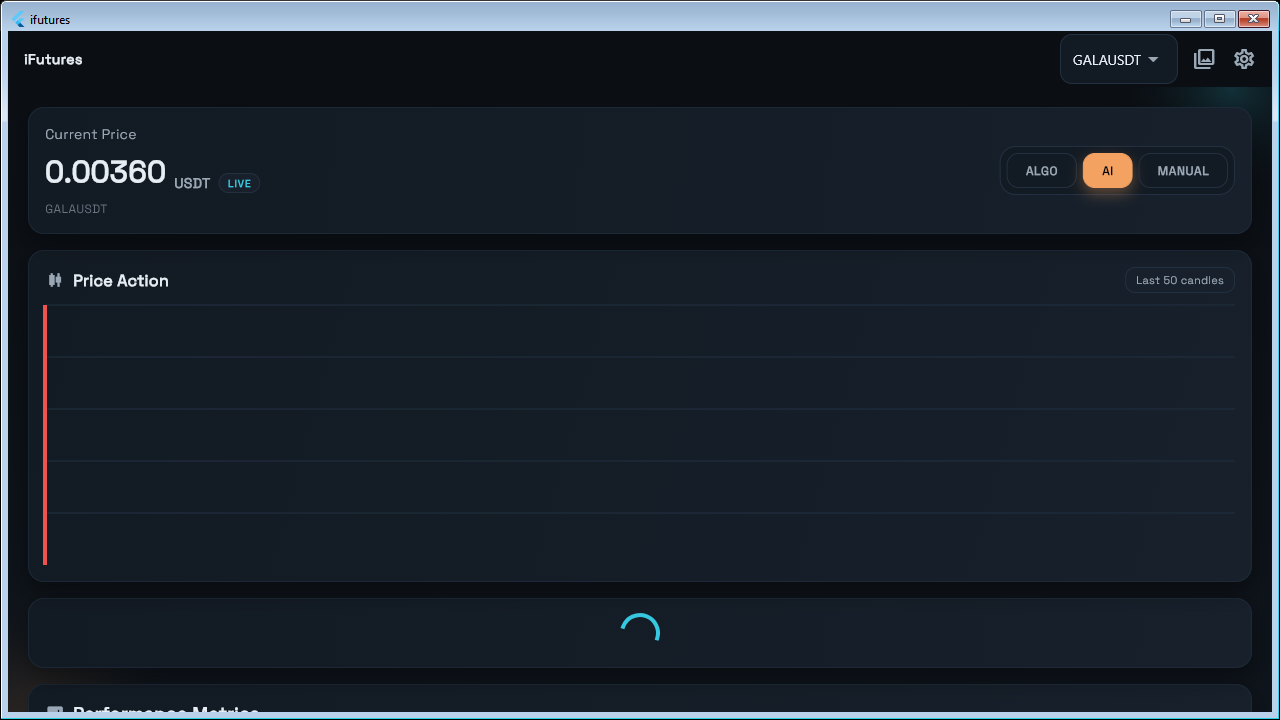
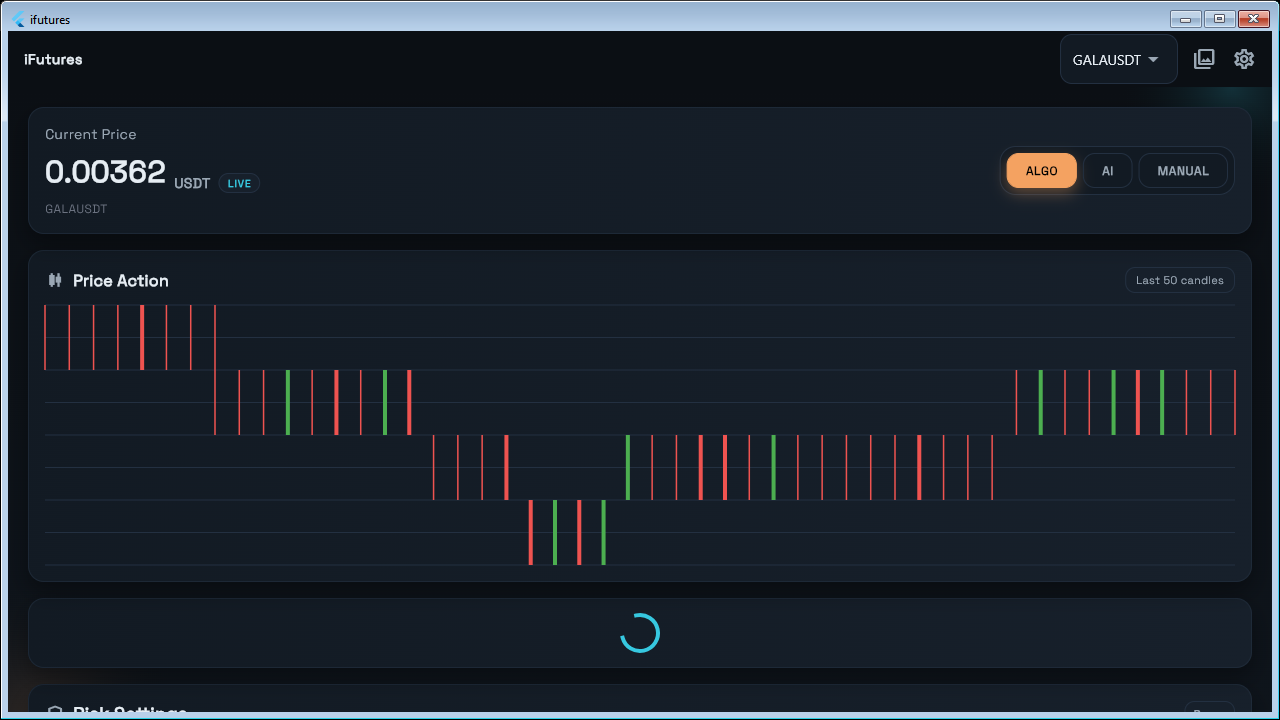
Fix market data loading and expose manual overrides

diff --git a/lib/screens/dashboard_screen.dart b/lib/screens/dashboard_screen.dart
@@ -2,7 +2,6 @@ import 'package:flutter/material.dart';
 import 'package:flutter_riverpod/flutter_riverpod.dart';
 import '../providers/trading_provider.dart';
 import '../trading/trading_engine.dart';
-import '../trading/manual_strategy.dart';
 import '../models/connection_status.dart';
 import '../widgets/common/app_panel.dart';
 import '../widgets/dashboard/mode_selector.dart';
@@ -25,7 +24,6 @@ class DashboardScreen extends ConsumerWidget {
     final isRunning = ref.watch(isBotRunningProvider(symbol));
     final engineAsync = ref.watch(tradingEngineProvider(symbol));
     final currentStrategy = ref.watch(currentStrategyProvider);
-    final isManual = currentStrategy is ManualStrategy;
     final settingsInit = ref.watch(settingsInitProvider);
     final connectionStatus = ref.watch(connectionStatusProvider(symbol));
     const symbols = ['GALAUSDT', 'BTCUSDT', 'ETHUSDT', 'BNBUSDT', 'SOLUSDT'];
@@ -186,76 +184,83 @@ class DashboardScreen extends ConsumerWidget {
                     ),
                   ),
                 ),
-                if (isManual)
-                  SliverPadding(
-                    padding: const EdgeInsets.fromLTRB(20, 8, 20, 8),
-                    sliver: SliverToBoxAdapter(
-                      child: AppPanel(
-                        child: Column(
-                          crossAxisAlignment: CrossAxisAlignment.start,
-                          children: [
-                            const Text(
-                              'Manual Controls',
-                              style: TextStyle(
-                                color: AppColors.textPrimary,
-                                fontSize: 16,
-                                fontWeight: FontWeight.w700,
+                SliverPadding(
+                  padding: const EdgeInsets.fromLTRB(20, 8, 20, 8),
+                  sliver: SliverToBoxAdapter(
+                    child: AppPanel(
+                      child: Column(
+                        crossAxisAlignment: CrossAxisAlignment.start,
+                        children: [
+                          const Text(
+                            'Manual Controls',
+                            style: TextStyle(
+                              color: AppColors.textPrimary,
+                              fontSize: 16,
+                              fontWeight: FontWeight.w700,
+                            ),
+                          ),
+                          const SizedBox(height: 6),
+                          Text(
+                            'Available for override while ${currentStrategy?.name ?? 'strategy'} is running.',
+                            style: const TextStyle(
+                              color: AppColors.textSecondary,
+                              fontSize: 12,
+                            ),
+                          ),
+                          const SizedBox(height: 12),
+                          Row(
+                            children: [
+                              Expanded(
+                                child: _ActionButton(
+                                  label: 'LONG',
+                                  icon: Icons.arrow_upward,
+                                  color: AppColors.positive,
+                                  onPressed: !isRunning || engineAsync.isLoading
+                                      ? null
+                                      : () {
+                                          if (engineAsync is AsyncData<TradingEngine>) {
+                                            engineAsync.value.manualEnterLong();
+                                          }
+                                        },
+                                ),
                               ),
-                            ),
-                            const SizedBox(height: 12),
-                            Row(
-                              children: [
-                                Expanded(
-                                  child: _ActionButton(
-                                    label: 'LONG',
-                                    icon: Icons.arrow_upward,
-                                    color: AppColors.positive,
-                                    onPressed: !isRunning || engineAsync.isLoading
-                                        ? null
-                                        : () {
-                                            if (engineAsync is AsyncData<TradingEngine>) {
-                                              engineAsync.value.manualEnterLong();
-                                            }
-                                          },
-                                  ),
+                              const SizedBox(width: 12),
+                              Expanded(
+                                child: _ActionButton(
+                                  label: 'SHORT',
+                                  icon: Icons.arrow_downward,
+                                  color: AppColors.negative,
+                                  onPressed: !isRunning || engineAsync.isLoading
+                                      ? null
+                                      : () {
+                                          if (engineAsync is AsyncData<TradingEngine>) {
+                                            engineAsync.value.manualEnterShort();
+                                          }
+                                        },
                                 ),
-                                const SizedBox(width: 12),
-                                Expanded(
-                                  child: _ActionButton(
-                                    label: 'SHORT',
-                                    icon: Icons.arrow_downward,
-                                    color: AppColors.negative,
-                                    onPressed: !isRunning || engineAsync.isLoading
-                                        ? null
-                                        : () {
-                                            if (engineAsync is AsyncData<TradingEngine>) {
-                                              engineAsync.value.manualEnterShort();
-                                            }
-                                          },
-                                  ),
+                              ),
+                              const SizedBox(width: 12),
+                              Expanded(
+                                child: _ActionButton(
+                                  label: 'CLOSE',
+                                  icon: Icons.close,
+                                  color: AppColors.textSecondary,
+                                  onPressed: !isRunning || engineAsync.isLoading
+                                      ? null
+                                      : () {
+                                          if (engineAsync is AsyncData<TradingEngine>) {
+                                            engineAsync.value.manualClose();
+                                          }
+                                        },
                                 ),
-                                const SizedBox(width: 12),
-                                Expanded(
-                                  child: _ActionButton(
-                                    label: 'CLOSE',
-                                    icon: Icons.close,
-                                    color: AppColors.textSecondary,
-                                    onPressed: !isRunning || engineAsync.isLoading
-                                        ? null
-                                        : () {
-                                            if (engineAsync is AsyncData<TradingEngine>) {
-                                              engineAsync.value.manualClose();
-                                            }
-                                          },
-                                  ),
-                                ),
-                              ],
-                            ),
-                          ],
-                        ),
+                              ),
+                            ],
+                          ),
+                        ],
                       ),
                     ),
                   ),
+                ),
                 SliverPadding(
                   padding: const EdgeInsets.fromLTRB(20, 8, 20, 20),
                   sliver: SliverToBoxAdapter(
@@ -435,16 +440,16 @@ class DashboardScreen extends ConsumerWidget {
         final latency = data.latencyMs != null ? '${data.latencyMs}ms' : '--';
 
         switch (data.state) {
-          case ConnectionState.connecting:
+          case MarketConnectionState.connecting:
             return const _StatusPill(label: 'Market: Connecting', color: AppColors.glowAmber);
-          case ConnectionState.connected:
+          case MarketConnectionState.connected:
             return _StatusPill(label: 'Market: Live • $latency', color: AppColors.glowCyan);
-          case ConnectionState.stale:
+          case MarketConnectionState.stale:
             return _StatusPill(
               label: 'Market: Slow • ${ageSeconds ?? '-'}s',
               color: AppColors.warning,
             );
-          case ConnectionState.disconnected:
+          case MarketConnectionState.disconnected:
             return const _StatusPill(label: 'Market: Offline', color: AppColors.negative);
         }
       },

diff --git a/lib/services/binance_api.dart b/lib/services/binance_api.dart
@@ -35,7 +35,7 @@ class BinanceApiService {
     return digest.toString();
   }
 
-  Future<Map<String, dynamic>> _sendRequest(
+  Future<T> _sendRequest<T>(
     String method,
     String path, {
     Map<String, dynamic>? params,
@@ -54,7 +54,7 @@ class BinanceApiService {
         queryParameters: params,
         options: Options(method: method),
       );
-      return response.data;
+      return response.data as T;
     } on DioException catch (e) {
       print('Dio error: ${e.response?.data ?? e.message}');
       rethrow;
@@ -70,15 +70,15 @@ class BinanceApiService {
   // --- API Methods ---
 
   Future<Map<String, dynamic>> getAccountInfo() async {
-    return _sendRequest('GET', '/fapi/v2/account', signed: true);
+    return _sendRequest<Map<String, dynamic>>('GET', '/fapi/v2/account', signed: true);
   }
 
   Future<Map<String, dynamic>> getBalance() async {
-    return _sendRequest('GET', '/fapi/v2/balance', signed: true);
+    return _sendRequest<Map<String, dynamic>>('GET', '/fapi/v2/balance', signed: true);
   }
 
   Future<Map<String, dynamic>> getExchangeInfo() async {
-    return _sendRequest('GET', '/fapi/v1/exchangeInfo');
+    return _sendRequest<Map<String, dynamic>>('GET', '/fapi/v1/exchangeInfo');
   }
 
   Future<Map<String, dynamic>> placeOrder({
@@ -98,7 +98,7 @@ class BinanceApiService {
     if (price != null) params['price'] = price;
     if (stopPrice != null) params['stopPrice'] = stopPrice;
 
-    return _sendRequest('POST', '/fapi/v1/order', params: params, signed: true);
+    return _sendRequest<Map<String, dynamic>>('POST', '/fapi/v1/order', params: params, signed: true);
   }
 
   Future<Map<String, dynamic>> setLeverage({
@@ -109,7 +109,7 @@ class BinanceApiService {
       'symbol': symbol.toUpperCase(),
       'leverage': leverage,
     };
-    return _sendRequest('POST', '/fapi/v1/leverage', params: params, signed: true);
+    return _sendRequest<Map<String, dynamic>>('POST', '/fapi/v1/leverage', params: params, signed: true);
   }
 
   Future<Map<String, dynamic>> setMarginType({
@@ -120,7 +120,7 @@ class BinanceApiService {
       'symbol': symbol.toUpperCase(),
       'marginType': marginType.toUpperCase(),
     };
-    return _sendRequest('POST', '/fapi/v1/marginType', params: params, signed: true);
+    return _sendRequest<Map<String, dynamic>>('POST', '/fapi/v1/marginType', params: params, signed: true);
   }
 
   Future<List<dynamic>> getKlines({
@@ -134,7 +134,6 @@ class BinanceApiService {
     };
     if (limit != null) params['limit'] = limit;
 
-    final response = await _sendRequest('GET', '/fapi/v1/klines', params: params);
-    return response as List<dynamic>;
+    return _sendRequest<List<dynamic>>('GET', '/fapi/v1/klines', params: params);
   }
 }

diff --git a/lib/models/connection_status.dart b/lib/models/connection_status.dart
@@ -1,4 +1,4 @@
-enum ConnectionState {
+enum MarketConnectionState {
   connecting,
   connected,
   stale,
@@ -6,7 +6,7 @@ enum ConnectionState {
 }
 
 class ConnectionStatus {
-  final ConnectionState state;
+  final MarketConnectionState state;
   final int? latencyMs;
   final DateTime? lastMessageAt;
 
@@ -16,9 +16,13 @@ class ConnectionStatus {
     this.lastMessageAt,
   });
 
-  factory ConnectionStatus.connecting() => const ConnectionStatus(state: ConnectionState.connecting);
+  factory ConnectionStatus.connecting() =>
+      const ConnectionStatus(state: MarketConnectionState.connecting);
 
   factory ConnectionStatus.disconnected({DateTime? lastMessageAt}) {
-    return ConnectionStatus(state: ConnectionState.disconnected, lastMessageAt: lastMessageAt);
+    return ConnectionStatus(
+      state: MarketConnectionState.disconnected,
+      lastMessageAt: lastMessageAt,
+    );
   }
 }

diff --git a/lib/providers/trading_provider.dart b/lib/providers/trading_provider.dart
@@ -4,6 +4,7 @@ import '../services/binance_ws.dart';
 import '../services/settings_service.dart';
 import '../trading/trading_engine.dart';
 import '../trading/ai_strategy.dart';
+import '../trading/algo_strategy.dart';
 import '../trading/strategy.dart';
 import '../models/kline.dart';
 import '../models/trade.dart';
@@ -62,8 +63,7 @@ final riskSettingsProvider = FutureProvider<RiskSettings>((ref) async {
 });
 
 final currentStrategyProvider = StateProvider<TradingStrategy?>((ref) {
-  final aiStrategy = ref.watch(aiStrategyProvider).valueOrNull;
-  return aiStrategy;
+  return RsiStrategy();
 });
 
 final tradingEngineProvider = FutureProvider.family<TradingEngine, String>((ref, symbol) async {

diff --git a/lib/widgets/dashboard/performance_metrics.dart b/lib/widgets/dashboard/performance_metrics.dart
@@ -60,7 +60,7 @@ class PerformanceMetrics extends ConsumerWidget {
                     child: Padding(
                       padding: EdgeInsets.all(32),
                       child: Text(
-                        'No trades yet\nStart the bot to see performance metrics',
+                        'No trades yet.\nStart the bot or use Manual mode to generate trades.',
                         style: TextStyle(color: AppColors.textSecondary),
                         textAlign: TextAlign.center,
                       ),

diff --git a/lib/trading/trading_engine.dart b/lib/trading/trading_engine.dart
@@ -334,10 +334,10 @@ class TradingEngine {
 
     final ageSeconds = DateTime.now().difference(_lastMessageAt!).inSeconds;
     final state = ageSeconds <= 3
-        ? ConnectionState.connected
+        ? MarketConnectionState.connected
         : ageSeconds <= 15
-            ? ConnectionState.stale
-            : ConnectionState.disconnected;
+            ? MarketConnectionState.stale
+            : MarketConnectionState.disconnected;
 
     _connectionController.add(
       ConnectionStatus(

diff --git a/lib/widgets/dashboard/trade_history.dart b/lib/widgets/dashboard/trade_history.dart
@@ -48,8 +48,9 @@ class TradeHistory extends ConsumerWidget {
               if (tradeList.isEmpty) {
                 return const Center(
                   child: Text(
-                    'No trades yet',
+                    'No trades yet. Start the bot or use Manual mode.',
                     style: TextStyle(color: AppColors.textSecondary),
+                    textAlign: TextAlign.center,
                   ),
                 );
               }

diff --git a/lib/widgets/dashboard/price_chart.dart b/lib/widgets/dashboard/price_chart.dart
@@ -18,8 +18,9 @@ class PriceChart extends ConsumerWidget {
         if (data.isEmpty) {
           return const Center(
             child: Text(
-              'Loading Market Data...',
+              'No market data yet. Check the Market badge or wait a few seconds.',
               style: TextStyle(color: AppColors.textSecondary),
+              textAlign: TextAlign.center,
             ),
           );
         }

diff --git a/TODO.md b/TODO.md
@@ -28,3 +28,4 @@ Last updated: 2026-03-16
 - [x] Settings and gallery screens updated to match the new design system.
 - [x] Compact risk summary card (SL/TP/qty) for quick visibility.
 - [x] Connection health badge and latency indicator for the market stream.
+- [x] Manual controls visible in all modes for quick override.
